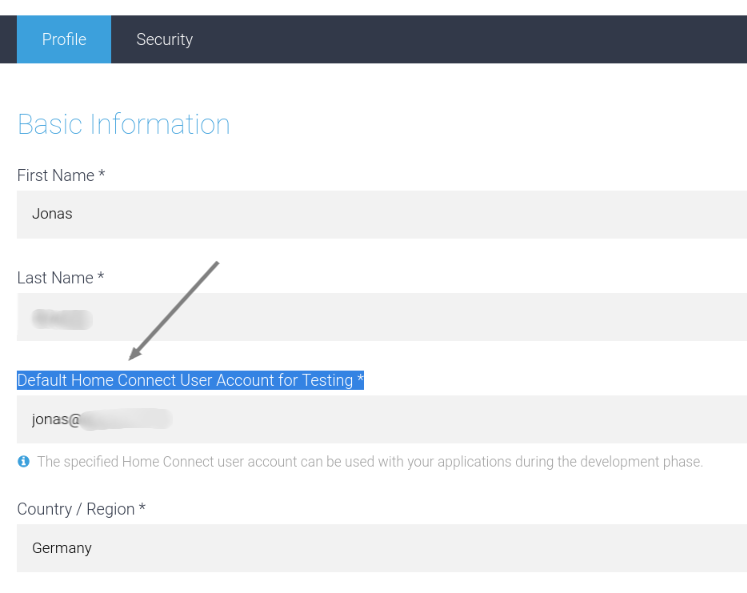
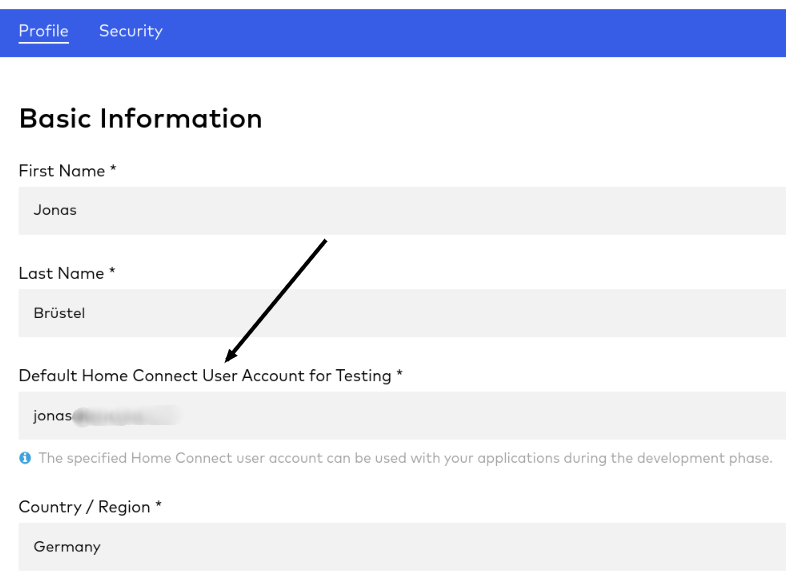
Updated documentation and fixed bridge auth

diff --git a/bundles/org.openhab.binding.homeconnect/src/main/java/org/openhab/binding/homeconnect/internal/servlet/HomeConnectServlet.java b/bundles/org.openhab.binding.homeconnect/src/main/java/org/openhab/binding/homeconnect/internal/servlet/HomeConnectServlet.java
@@ -227,20 +227,28 @@ public class HomeConnectServlet extends HttpServlet {
         if (request == null || response == null) {
             return;
         }
-        String requestPayload = request.getReader().lines().collect(Collectors.joining(System.lineSeparator()));
-
         response.setContentType("text/html; charset=UTF-8");
         response.setCharacterEncoding("UTF-8");
 
-        if (request.getParameter(PARAM_ACTION) != null && request.getParameter(PARAM_BRIDGE_ID) != null) {
-            postBridgesPage(request, response);
-        } else if ((ACTION_PUT_RAW.equals(request.getParameter(PARAM_ACTION))
-                || ACTION_GET_RAW.equals(request.getParameter(PARAM_ACTION)))
-                && request.getParameter(PARAM_THING_ID) != null) {
-            String thingId = request.getParameter(PARAM_THING_ID);
-            String putPath = request.getParameter(PARAM_PATH);
-            String action = request.getParameter(PARAM_ACTION);
-            processRawApplianceActions(response, action, thingId, putPath, requestPayload);
+        String path = request.getPathInfo();
+        if (path == null || path.isEmpty() || path.equals(ROOT_PATH)) {
+            if (request.getParameter(PARAM_ACTION) != null && request.getParameter(PARAM_BRIDGE_ID) != null) {
+                postBridgesPage(request, response);
+            } else {
+                response.sendError(HttpServletResponse.SC_NOT_FOUND);
+            }
+        } else if (pathMatches(path, APPLIANCES_PATH)) {
+            String requestPayload = request.getReader().lines().collect(Collectors.joining(System.lineSeparator()));
+            if ((ACTION_PUT_RAW.equals(request.getParameter(PARAM_ACTION))
+                    || ACTION_GET_RAW.equals(request.getParameter(PARAM_ACTION)))
+                    && request.getParameter(PARAM_THING_ID) != null) {
+                String thingId = request.getParameter(PARAM_THING_ID);
+                String putPath = request.getParameter(PARAM_PATH);
+                String action = request.getParameter(PARAM_ACTION);
+                processRawApplianceActions(response, action, thingId, putPath, requestPayload);
+            } else {
+                response.sendError(HttpServletResponse.SC_NOT_FOUND);
+            }
         } else {
             response.sendError(HttpServletResponse.SC_NOT_FOUND);
         }

diff --git a/bundles/org.openhab.binding.homeconnect/README.md b/bundles/org.openhab.binding.homeconnect/README.md
@@ -33,7 +33,7 @@ Supported devices: dishwasher, washer, washer / dryer combination, dryer, oven, 
 
 ## Discovery
 
-After the bridge has been added, devices are discovered automatically.
+After the bridge has been added and authorized, devices are discovered automatically.
 
 
 ## Channels
@@ -87,26 +87,26 @@ After the bridge has been added, devices are discovered automatically.
 2. Please make sure you've added your associated Home Connect account email at [https://developer.home-connect.com/user/me/edit](https://developer.home-connect.com/user/me/edit). You should fill in your email address, which you use for the official Android or iOS app, at `Default Home Connect User Account for Testing`.  
 ![Screenshot Home Connect profile page](doc/home_connect_profile.png "Screenshot Home Connect profile page")
 
-3. Create an application at [https://developer.home-connect.com/applications](https://developer.home-connect.com/applications)
+3. Register / Create an application at [https://developer.home-connect.com/applications](https://developer.home-connect.com/applications)
     * _Application ID_: e.g. `openhab-binding`
     * _OAuth Flow_: Authorization Code Grant Flow
     * _Home Connect User Account for Testing_: the associated user account email from [Home Connect](https://www.home-connect.com/)  
+       > **WARNING**: Please don't use your developer account username  
+
      **_Please don't use your developer account username_**
     * _Redirect URIs_: add your openHAB URL followed by `/homeconnect`  
     for example: `http://192.168.178.34:8080/homeconnect` or `https://myhome.domain.com/homeconnect`
     * _One Time Token Mode_: keep unchecked 
     * _Proof Key for Code Exchange_: keep unchecked
-    > **WARNING**: If you plan to add more than two Home Connect appliances, I suggest that you create multiple applications on the Home Connect developer site. Due to the request [limits](https://developer.home-connect.com/docs/general/ratelimiting)  this is necessary to avoid communication problems. Each Home Connect application is associated to a openHAB bridge.  
-    It is also possible to add all home appliances to one bridge. But initializing will take longer after adding them or a openHAB restart. You will see log messages like this: `The rate limit “50 calls in 1 minute” was reached. Requests are blocked during the remaining period of 40 seconds.` 
 4. After your application has been created, you should see the _Client ID_ and _Client Secret_ of the application. Please save these for later.  
 
 ![Screenshot Home Connect application page](doc/home_connect_application.png "Screenshot Home Connect application page")
 
 
 
-#### 3. Setup bridge (Paper UI)
+#### 3. Setup bridge (openHAB UI)
 
-The Home Connect bridge can be configured in the Paper UI as follows:
+The Home Connect bridge can be configured in the openHAB UI as follows:
 
 1. Go to the Inbox and press the add button
 2. Choose `Home Connect Binding`
@@ -122,13 +122,13 @@ The Home Connect bridge can be configured in the Paper UI as follows:
 ![Screenshot Home Connect wizard page 3](doc/homeconnect_setup_3.png "Screenshot Home Connect wizard page 3")  
 ![Screenshot Home Connect wizard page 4](doc/homeconnect_setup_4.png "Screenshot Home Connect wizard page 4")  
 
-7. That's it! Now you can use autodiscovery to add devices. Your devices should show up if you start a scan inside the Paper UI Inbox.
+7. That's it! Now you can use autodiscovery to add devices. Your devices should show up if you start a device scan in the openHAB UI.
 
 
 
 ## Examples: File based configuration
 
-If you prefer to configure everything via file instead of PaperUI, here are some examples.
+If you prefer to configure everything via file instead of openHAB UI, here are some examples.
 
 ### things/homeconnect.things
 
@@ -165,11 +165,18 @@ Number:Time            DishwasherSimulator_RemainingProgramTimeState   "Remainin
 Number:Dimensionless   DishwasherSimulator_ProgramProgressState        "Progress State"                    {channel="homeconnect:dishwasher:simulator_api_bridge:dishwasher1:program_progress_state"}
 ```
 
-## Log view
+## Home Connect Console
 
-The binding comes with a build in logging service. The user interface is reachable through the web browser http(s)://[YOUROPENHAB]:[YOURPORT]/homeconnectlogs (e.g. http://192.168.178.100:8080/homeconnectlogs). The logging UI allows to download a pseudominysed log file. Credentials and appliance IDs will be replaced. For example, the exported file can be used to ask for help in the community forum.
+The binding comes with a separate user interface, which is reachable through the web browser http(s)://[YOUROPENHAB]:[YOURPORT]/homeconnect (e.g. http://192.168.178.100:8080/homeconnect). 
 
-Log entries older than 49h will be automatically earased. To disable file logging you can switch it off in the bindings settings. 
+Features:
+* overview of your bridges and appliances
+* send commands to your appliances
+* see latest API requests
+* see received events from the Home Connect backend
+* API request counts
+
+> **INFO**: If you have a problems with your installation, please always provide request and event exports. ![Screenshot Home Connect wizard page 4](doc/export_button.png "Export button")
 
 ## How To
 
@@ -204,9 +211,9 @@ end
 
 ### Start program with custom settings
 
-Currently, not all program options of a device are available as items in openHAB. For example, you cannot change the `Fill quantity` of a coffee maker program. If starting a program with custom setting is wished, you can send a special command to the item of type `basic_actions_state`.
+Currently, not all program options of a device are available as items in openHAB. For example, you cannot change the `Fill quantity` of a coffee maker program. If you wish to start a program with a custom setting, you can send a special command to the item of type `basic_actions_state`.
 
-> **INFO**: Only for advanced users. You need to know how to use the `curl` command. Alternatively you could use the REST UI to trigger the commands.
+> **INFO**: Only for advanced users. You need to know how to use the `curl` command. Alternatively you you can use the binding UI to trigger the commands.
 
 #### 1. Retrieve "special command" payload
 
@@ -214,25 +221,14 @@ You have a couple options to get the program settings payload.
 
 a) You could have a look at the Home Connect developer documentation (https://developer.home-connect.com/docs/) and create the payload on your own. 
 
-b) You could have a look at the log UI and extract the payload from there. 
+b) You could have a look at the request logs and extract the payload from there. 
 
 1. On the physical device, select your desired program with the appropriate options.
-2. Send the command `selected` to the `basic_actions_state` channel item. This will trigger an API call to retrieve the current home appliance program settings. You can do it via `curl` command or use the REST UI of openHAB.     
-*Curl example*:   
-        ```shell
-curl -X POST --header "Content-Type: text/plain" --header "Accept: application/json" -d "selected" "http://localhost:8080/rest/items/homeconnect_CoffeeMaker_BOSCH_HCS06COM1_B95E5103934D_basic_actions_state"
-        ```  
-*Please replace `item` and `server URL`* 
+2. Open the appliance section of the binding UI (http(s)://[YOUROPENHAB]:[YOURPORT]/appliances) and click the 'Selected Program' button.  
+![Screenshot Home Connect wizard page 4](doc/selected_program_1.png "Get selected program")  
 
-3. Open the log UI in your browser (http(s)://[YOUROPENHAB]:[YOURPORT]/homeconnectlogs) and search for the latest occurence of the string `/programs/selected`. Click on the log line and expand the entry. It should look like the following screenshot.
-![Screenshot Home Connect log view](doc/homeconnect_log_selected.png "Screenshot Home Connect log view")
-
-4. Copy the JSON payload. In a further step, this payload will be used to start the program.  
-*extracted payload:* 
-
-      ```JS 
-      {"data":{"key":"ConsumerProducts.CoffeeMaker.Program.Beverage.EspressoMacchiato","options":[{"key":"ConsumerProducts.CoffeeMaker.Option.CoffeeTemperature","value":"ConsumerProducts.CoffeeMaker.EnumType.CoffeeTemperature.94C","unit":"enum"},{"key":"ConsumerProducts.CoffeeMaker.Option.BeanAmount","value":"ConsumerProducts.CoffeeMaker.EnumType.BeanAmount.Mild","unit":"enum"},{"key":"ConsumerProducts.CoffeeMaker.Option.FillQuantity","value":60,"unit":"ml"}]}}
-      ```
+3. Copy the JSON payload. In a further step, this payload will be used to start the program.  
+![Screenshot Home Connect wizard page 4](doc/selected_program_2.png "Get selected program") 
 
 #### 2. Start program
 
@@ -276,10 +272,10 @@ The channel of type `remote_start_allowance_state` is read only. You can only en
 
 ### In case of error...
 
-Please check log UI (http(s)://[YOUROPENHAB]:[YOURPORT]/homeconnectlogs) and ask for help in the community forum or on github. Please download a pseudonymised log file and attach it to your question.
+Please check log UI (http(s)://[YOUROPENHAB]:[YOURPORT]/homeconnect) and ask for help in the community forum or on github. Please provide request and event exports.  
+ ![Screenshot Home Connect wizard page 4](doc/export_button.png "Export button")
+
 
 ### Rate limit reached
 
-If you plan to add more than two Home Connect appliances, I suggest that you create multiple applications on the Home Connect developer site. Due to the request [limits](https://developer.home-connect.com/docs/general/ratelimiting)  this is necessary to avoid communication problems. Each Home Connect application is associated to a openHAB bridge. 
-
-After you've added a appliance you can switch the bridge at the thing configuration page.
+The Home Connect API enforces rate [limits](https://developer.home-connect.com/docs/general/ratelimiting) . If you have a lot of `429` response codes in your request log section (http(s)://[YOUROPENHAB]:[YOURPORT]/log/requests), please check the error response.
